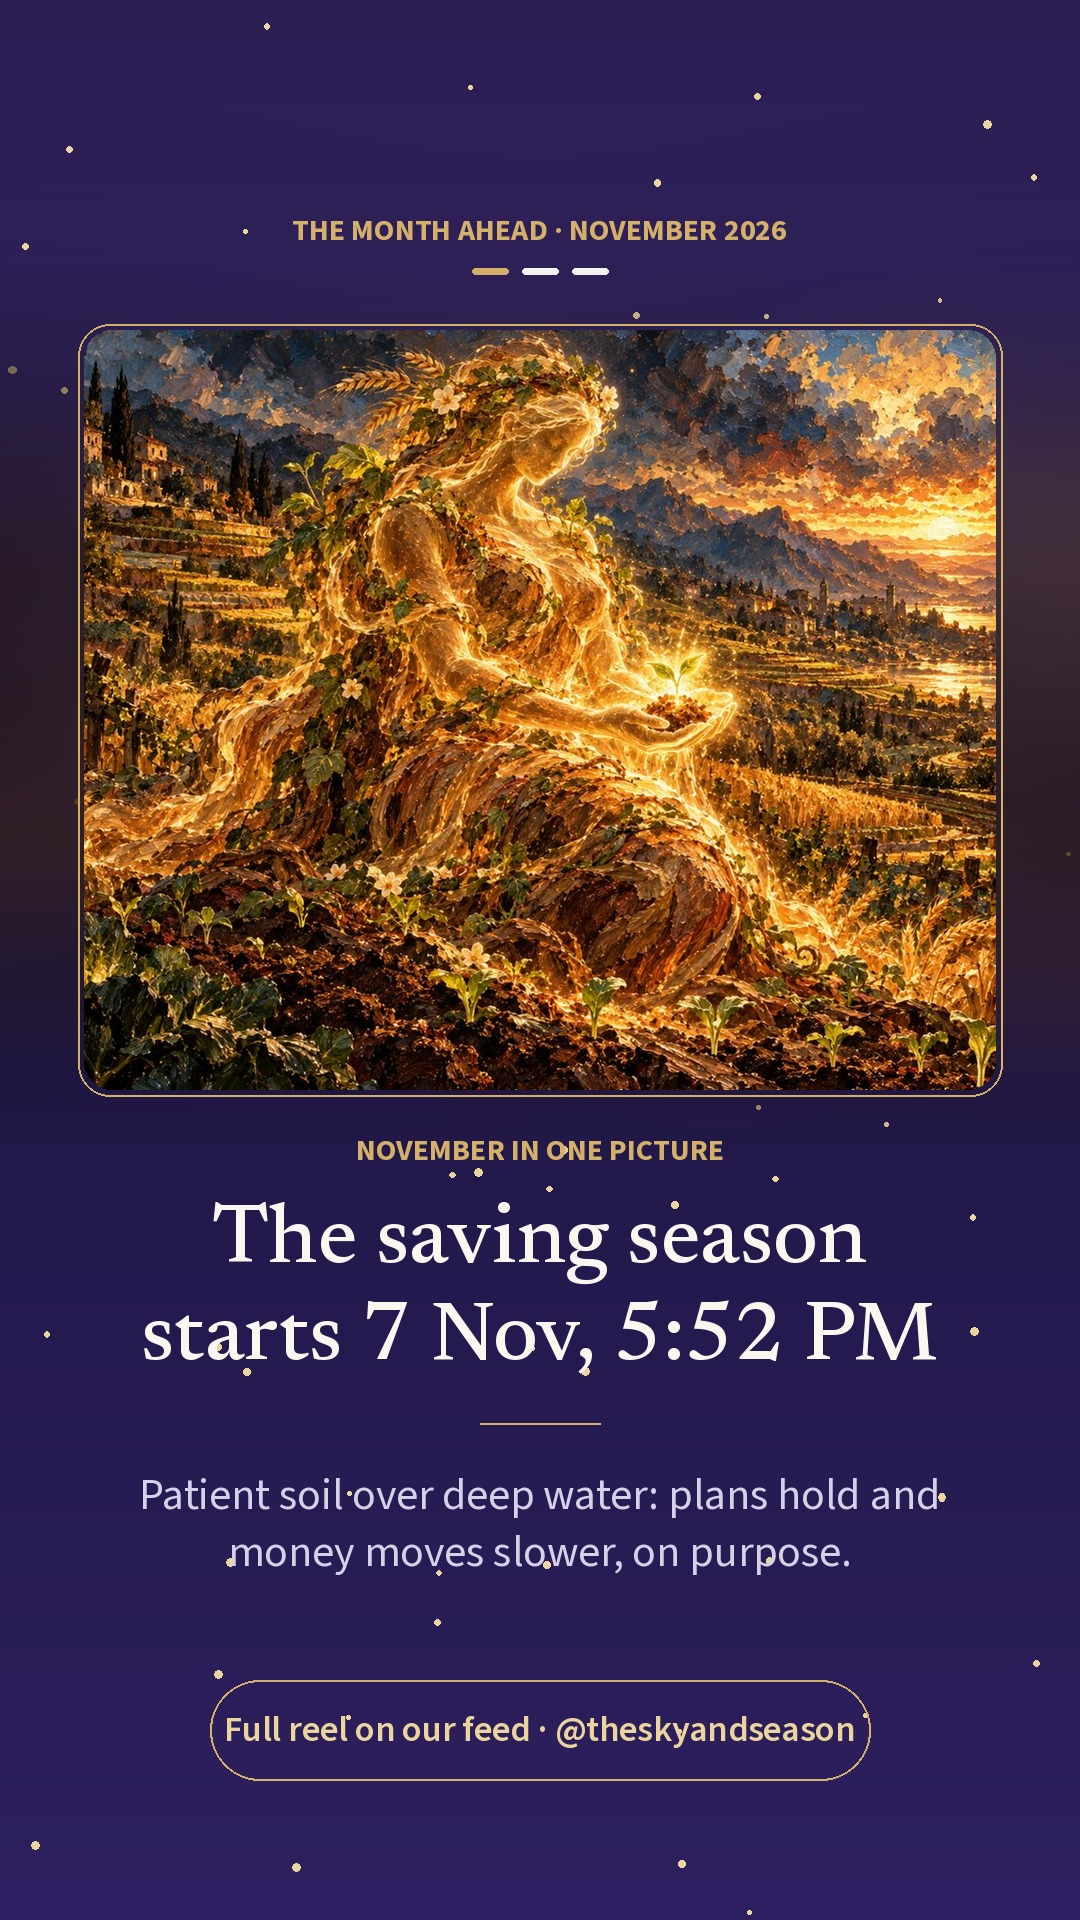
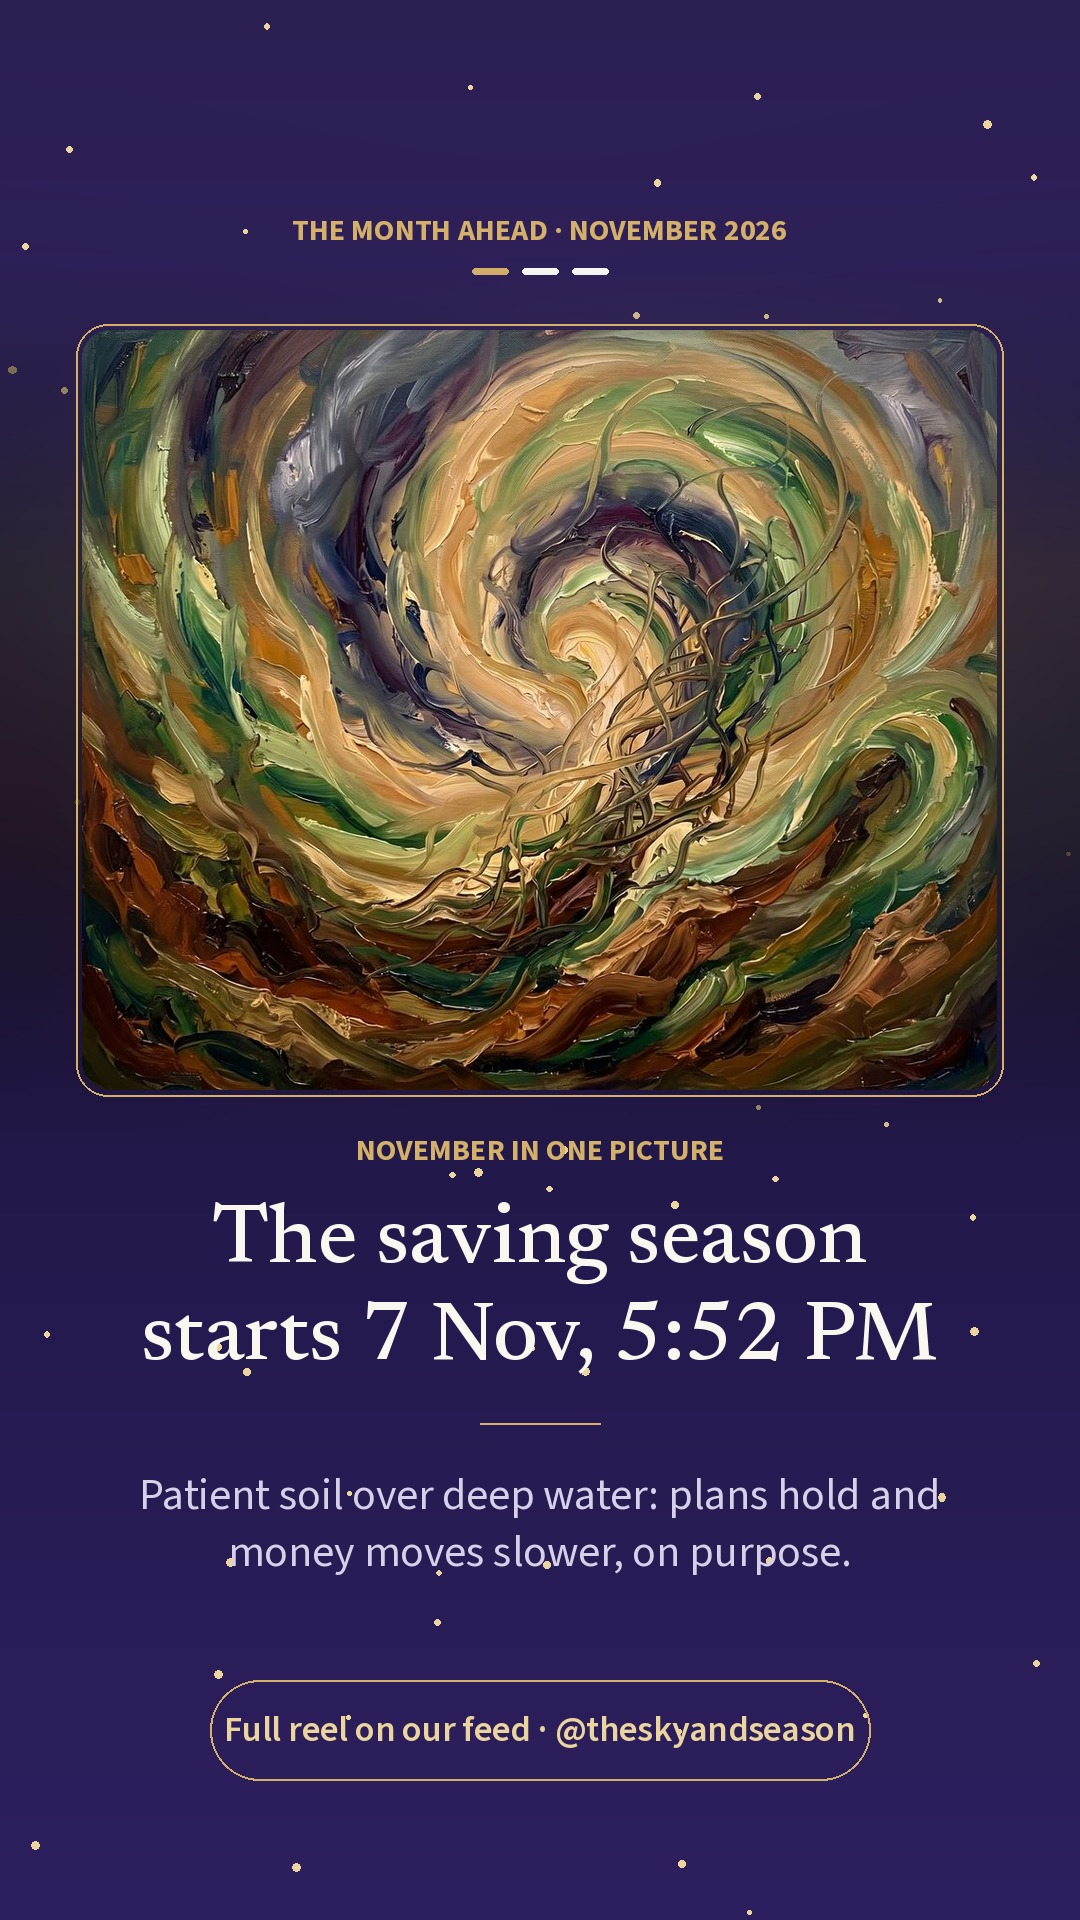
The Month Ahead: Inner Constellation lens on both halves (essence + season paintings), Inner names in data.json
Claude-Session: https://claude.ai/code/session_019KZHxaazVTEPpZGoisYXke

diff --git a/tools/monthly/render.py b/tools/monthly/render.py
@@ -4,6 +4,8 @@
 Reads monthly/<ym>/data.json (month.py) and content.json (schema v2, see monthly/SERIES.md); writes monthly/<ym>/reel.mp4,
 cover.jpg, story1-3.jpg and copies them to media/<post_date>/monthly-*.  Run from the repo root after `cd tools/reels && npm install`.
 
+Lens (18 Oct): the Inner Constellation lens on BOTH halves (stem essence painting + season stage painting), never the Classic
+stem-god / animal paintings, so the two halves match. Set "lens": "classic" in content.json only if Stanley asks for that look.
 Look (v2, 18 Oct, after Stanley rejected the emoji version): premium and dark. Deep indigo, the site's own oil paintings of the
 month's element and animal (tools/assets/art, the same art the website shows), slow Ken Burns on every painting, gold dust,
 Newsreader serif in soft white with gold accents, thin gold rules. Opens on the approved Sky & Season orbit shot, closes on a
@@ -115,9 +117,10 @@ def render(ym):
     folder = os.path.join(ROOT, 'monthly', ym)
     D = json.load(open(f'{folder}/data.json', encoding='utf-8')); C = tidy(json.load(open(f'{folder}/content.json', encoding='utf-8')))
     bm = D['bazi_month']; month = D['gregorian_month']; mname = month.split()[0]
-    sky_art = art('stems', SLUG[bm['stem']]); sea_art = art('branches', BR_SLUG[bm['branch']])
+    lens = C.get('lens', 'inner'); ST, BR = ('stems', 'branches') if lens == 'classic' else ('inner-stems', 'inner-branches')
+    sky_art = art(ST, SLUG[bm['stem']]); sea_art = art(BR, BR_SLUG[bm['branch']])
     sky_md, sea_md = medallion(sky_art, 150), medallion(sea_art, 150)
-    el_md = {el: medallion(art('stems', EL_SLUG[el]), 118, EL_TINT[el]) for el in ['Wood', 'Fire', 'Earth', 'Metal', 'Water']}
+    el_md = {el: medallion(art(ST, EL_SLUG[el]), 118, EL_TINT[el]) for el in ['Wood', 'Fire', 'Earth', 'Metal', 'Water']}
     mark = Image.open(f'{A}/brand/logo-mark-256.png').convert('RGBA').resize((140, 140))
     word = Image.open(f'{A}/brand/logo-wordmark-1200w.png').convert('RGBA'); word = word.resize((720, int(720 * word.height / word.width)))
     wa = word.getchannel('A'); word = Image.new('RGBA', word.size, GOLD_L + (255,)); word.putalpha(wa)
@@ -217,6 +220,7 @@ def render(ym):
 # ---------- stories ----------
 def stories(D, C, folder):
     bm = D['bazi_month']; month = D['gregorian_month']; S = C['stories']
+    lens = C.get('lens', 'inner'); ST, BR = ('stems', 'branches') if lens == 'classic' else ('inner-stems', 'inner-branches')
     def base(k):
         im = night(); dust(im, 3 + k * 2.1, 0.6); d = ImageDraw.Draw(im, 'RGBA'); kicker(d, 230, f'THE MONTH AHEAD · {month.upper()}')
         for j in range(3):
@@ -225,7 +229,7 @@ def stories(D, C, folder):
     e = C['energy']
     # 1 teaser: the month's painting
     im, d = base(0); t = S['teaser']
-    y = painting_panel(im, art('stems', SLUG[bm['stem']]), 330, 760, 0.5, 1); d = ImageDraw.Draw(im, 'RGBA')
+    y = painting_panel(im, art(ST, SLUG[bm['stem']]), 330, 760, 0.5, 1); d = ImageDraw.Draw(im, 'RGBA')
     kick = t['kicker'] if 'month ahead' not in t['kicker'].lower() else f"{month.split()[0]} in one picture"
     d.text((W // 2, y + 60), kick.upper(), font=sans(30, 700), fill=GOLD, anchor='mm')
     yy = y + 110
@@ -235,7 +239,7 @@ def stories(D, C, folder):
     im.convert('RGB').save(f'{folder}/story1.jpg', quality=92)
     # 2 question: reply with a number (a native poll can be added by hand)
     im, d = base(1); q = S['question']
-    im.alpha_composite(medallion(art('branches', BR_SLUG[bm['branch']]), 220), (W // 2 - 116, 330))
+    im.alpha_composite(medallion(art(BR, BR_SLUG[bm['branch']]), 220), (W // 2 - 116, 330))
     y = block(d, 640, q['question'], serif(84, 500), WHITE, maxw=W - 140) + 50
     for i, o in enumerate(q['options']):
         ov = Image.new('RGBA', (W, H), (0, 0, 0, 0)); ImageDraw.Draw(ov).rounded_rectangle([110, y, W - 110, y + 132], 66, outline=GOLD + (170,), width=2, fill=(255, 255, 255, 16)); im.alpha_composite(ov); d = ImageDraw.Draw(im, 'RGBA')
@@ -248,7 +252,7 @@ def stories(D, C, folder):
     y = block(d, 340, c['headline'], serif(80, 500), WHITE, maxw=W - 140)
     y = block(d, y + 20, c['line'], sans(40, 400), SOFT, maxw=W - 200) + 40
     for el in ['Wood', 'Fire', 'Earth', 'Metal', 'Water']:
-        md = medallion(art('stems', EL_SLUG[el]), 104, EL_TINT[el]); im.alpha_composite(md, (100, int(y)))
+        md = medallion(art(ST, EL_SLUG[el]), 104, EL_TINT[el]); im.alpha_composite(md, (100, int(y)))
         d.text((240, y + 2), E['cards'][el]['people'], font=sans(32, 700), fill=EL_TINT[el])
         f = fit(d, E['cards'][el]['line'], 38, W - 340, lambda s: sans(s, 400), 32); yy = block(d, y + 46, E['cards'][el]['line'], f, WHITE, maxw=W - 340, align='l', x=240, lead=1.12)
         yy = int(max(yy, y + 112)); d.line([(240, yy + 12), (W - 100, yy + 12)], fill=GOLD_D + (120,), width=1); y = yy + 30

diff --git a/tools/monthly/month.py b/tools/monthly/month.py
@@ -11,6 +11,9 @@ HERE = os.path.dirname(os.path.abspath(__file__)); ROOT = os.path.abspath(os.pat
 sys.path.insert(0, os.path.join(ROOT, 'tools')); sys.path.insert(0, os.path.join(ROOT, 'tools', 'reels'))
 from daytype import daytype, name, STEMS, BRANCH_ANIMAL, BRANCH_EL
 from week import GOD, SEASON, FORCE
+INNER = ['The Steadfast Pillar', 'The Resilient Weaver', 'The Luminary', "The Alchemist's Flame", 'The Silent Sentinel', 'The Nurturing Garden', "The Arbiter's Blade", 'The Refined Artisan', 'The Boundless Tide', 'The Pervasive Mist']
+INNER_SHORT = ['Unwavering conviction and principled leadership', 'Adaptable strength that bends and finds a way round', 'Boundless generosity and warmth', 'Intense, transformative focus', 'Steady, protective, immovable', 'Unconditional empathy and care, fertile soil for others', 'Decisive clarity that cuts to what matters', 'Refined precision and craft', 'Vast, free-flowing curiosity', 'Quiet, pervasive intuition']
+STAGE = ['Seeding', 'Gestating', 'Sprouting', 'Exposing', 'Bracing', 'Reaching', 'Culminating', 'Ripening', 'Weathering', 'Releasing', 'Composting', 'Dissolving']
 from reel import relation, GLOSS, LANDSCAPE, STEM_INFO, HOURS
 SGT = datetime.timezone(datetime.timedelta(hours=8))
 HAN_STEMS = '甲乙丙丁戊己庚辛壬癸'; HAN_BRANCHES = '子丑寅卯辰巳午未申酉戌亥'
@@ -76,7 +79,7 @@ def build(ym):
     stem_el, br_el = STEMS[s][1], BRANCH_EL[b]
     return dict(
         gregorian_month=datetime.date(y, m, 1).strftime('%B %Y'), post_date=(datetime.date(y, m, 1) - datetime.timedelta(1)).isoformat(),
-        bazi_month=dict(pillar=after, stem=name(s), stem_god=GOD[s], stem_nature=STEM_INFO[s][0], stem_good_for=STEM_INFO[s][1], stem_watch=STEM_INFO[s][2],
+        bazi_month=dict(pillar=after, stem=name(s), stem_inner=INNER[s], stem_inner_short=INNER_SHORT[s], season_stage=STAGE[b], stem_god=GOD[s], stem_nature=STEM_INFO[s][0], stem_good_for=STEM_INFO[s][1], stem_watch=STEM_INFO[s][2],
                         branch=BRANCH_ANIMAL[b], branch_element=br_el, season=SEASON[b], landscape=LANDSCAPE[b], hidden_stems=hid,
                         polarity=STEMS[s][0], stem_vs_branch=el_rel(stem_el, br_el),
                         best_friend=BRANCH_ANIMAL[[1, 0, 11, 10, 9, 8, 7, 6, 5, 4, 3, 2][b]], team=[BRANCH_ANIMAL[(b + 4) % 12], BRANCH_ANIMAL[(b + 8) % 12]],

diff --git a/monthly/SERIES.md b/monthly/SERIES.md
@@ -42,6 +42,7 @@ A separate, premium monthly series, built to reach new people (it may be boosted
   - Pillars come from **lunar-lite**, the engine skyandseason.com uses.
   - The solar-term minute comes from **astronomy-engine** (`tools/monthly/month.py`).
   - Finding (18 Oct): lunar-lite only works in 2-hour blocks and switches months about 1–2 hours after the true solar term (Li Dong 2026: astronomical 17:52 SGT; the engine switches in its 19:00–21:00 block). For the minute, trust the astronomy.
+- data.json now carries the Inner names too: `bazi_month.stem_inner` (e.g. "The Nurturing Garden"), `stem_inner_short`, `season` (e.g. "The Bare Ground") and `season_stage`.
 - Only state relationships that are in data.json, or the standard five-element symbolism:
   - Water = wealth and flow.
   - Earth stores and contains.
@@ -58,10 +59,11 @@ A separate, premium monthly series, built to reach new people (it may be boosted
   - Must include #skyandseason and #innerconstellation.
   - End with a comment prompt.
   - At most one emoji per paragraph.
-- **Look (v2, 18 Oct; Stanley rejected v1 as "primary school"):** premium and dark. Deep indigo with a violet glow; the site's own oil paintings (`tools/assets/art/stems/<slug>.jpg` and `art/branches/<slug>.jpg`, the same art skyandseason.com shows) for the month's element and animal, framed with a thin gold line and a slow push-in; a blurred echo of the painting as atmosphere behind the type; Newsreader serif in soft white, gold kickers and hairline rules; gold dust. **No emoji, no cartoon icons, no stickers, no title cards.** Opens on the approved Sky & Season orbit shot; closes on a clean indigo page with the logo mark, gold wordmark and website.
+- **Look (v2, 18 Oct; Stanley rejected v1 as "primary school"):** premium and dark. Deep indigo with a violet glow; the site's own Inner Constellation oil paintings (`tools/assets/art/inner-stems/<slug>.jpg` for the element's essence, `art/inner-branches/<slug>.jpg` for the season; the Classic sets in `art/stems` and `art/branches` are not used unless the lens is switched) for the month's element and season, framed with a thin gold line and a slow push-in; a blurred echo of the painting as atmosphere behind the type; Newsreader serif in soft white, gold kickers and hairline rules; gold dust. **No emoji, no cartoon icons, no stickers, no title cards.** Opens on the approved Sky & Season orbit shot; closes on a clean indigo page with the logo mark, gold wordmark and website.
 - **Music:** a warm, bright bed of real sampled harp, piano and flute (`tools/monthly/music.py`, MIT samples, advert-safe). Never dark music. Stanley may swap in a trending sound in the app.
 
 ### Copy rules (v2, binding)
+- **One lens, both halves (Stanley, 18 Oct: "If the heaven pillar is Inner Constellation, the earth branch also has to be Inner. If not it is confusing").** The reel, the stories and the body of the report use the **Inner Constellation lens for both the element and the season**: the stem's essence name and painting (Yin Earth = "The Nurturing Garden", `tools/assets/art/inner-stems/<slug>.jpg`) and the branch's season name and painting ("The Bare Ground", `tools/assets/art/inner-branches/<slug>.jpg`). **No animals, no stem-god names ("The Fertile Field"), no Chinese characters on screen.** The Classic names (pillar 己亥, The Fertile Field, the Pig, the twelve animals' relations) live only in the report's final section "The classic view, if you know the animals". The renderer reads `"lens"` from content.json and defaults to `inner`; `classic` exists only in case Stanley ever asks for that look, and then it must be classic on both halves.
 - **Every concept is explained in the sentence it appears in.** "Yin Earth" is always followed by what it is in everyday words. The labels "The month's element · what we call the Sky" and "The month's animal · what we call the Season" are drawn under the names.
 - **No ten-god / force names in the reel or stories** (no "The Steward", "The Muse"…). The reel's personal part is **five element groups** ("Wood people: a money month…"), which is honest because both yin and yang Day Masters of an element get the same family of force. The ten-force detail lives in the website report, and even there the plain meaning comes before the name ("a steady-money force, which we call The Steward").
 - The word "Day Master" is not used on screen; it is "your element: the day you were born".
@@ -71,8 +73,8 @@ A separate, premium monthly series, built to reach new people (it may be boosted
 | --- | --- | --- |
 | 0–5.7 s | hook | 2 lines, each ≤ 30 characters |
 | 5.7–10 s | intro | line1 ≤ 44 ("Every month has its own element."), line2 ≤ 44 ("November's is Yin Earth.") |
-| 10–16 s | sky | sky_name ≤ 24, sky_label ≤ 46, sky_plain ≤ 64 (the painting of the month's stem) |
-| 16–21 s | season | season_name ≤ 24, season_label ≤ 46, season_plain ≤ 64 (the painting of the month's animal) |
+| 10–16 s | sky | sky_name ≤ 24 (the Inner essence name, e.g. "The Nurturing Garden"), sky_label ≤ 46, sky_plain ≤ 64 ("Yin Earth: soft, patient soil…") |
+| 16–21 s | season | season_name ≤ 24 (the Inner season name, e.g. "The Bare Ground"), season_label ≤ 46, season_plain ≤ 64 |
 | 21–27 s | meaning | image ≤ 45 (one picture line), meaning ≤ 96 |
 | 27–40 s | themes | 3 × {area, headline ≤ 28, line ≤ 86} |
 | 40–49 s | opportunity, challenge | each {headline ≤ 30, line ≤ 86, tip ≤ 48} |
@@ -96,9 +98,9 @@ Instagram API stories cannot carry stickers.
   4. Five Element interactions (month stem vs branch, month vs year).
   5. Career and wealth.
   6. Relationships and personal development.
-  7. Twelve zodiac animals.
-  8. Your Day Master this month: the concept first, then the five element groups, then all ten with the plain meaning before the force name.
-  9. Practical guidance (5–7 bullets).
+  7. Your element this month: the concept first, then the five element groups, then all ten with the plain meaning before the force name.
+  8. Practical guidance (5–7 bullets).
+  9. "The classic view, if you know the animals": the pillar, the stem god, the animal, hidden stems, the year pillar, and the twelve animals' relations (one line each).
   10. A traditional-interpretation note and a link line.
 - **qa** lists every factual claim with its data.json field.
 

diff --git a/monthly/README.md b/monthly/README.md
@@ -10,6 +10,9 @@ The project doc `claude/month-ahead-series.md` holds the full brief and rules; t
 - **Posted:** on the last day of the month at 21:00 SGT (the day before the month starts): the reel, then the 3 stories.
   It only posts when the review status is `approved`.
 
+## Lens
+Inner Constellation on both halves (essence painting + season painting). See SERIES.md.
+
 ## Files
 - `monthly/<YYYY-MM>/data.json`: validated facts from `tools/monthly/month.py` (lunar-lite pillars, astronomy-engine solar-term minute, SGT).
 - `monthly/<YYYY-MM>/content.json`: the script, stories, captions, report and promotion notes (written by the Fable task).
